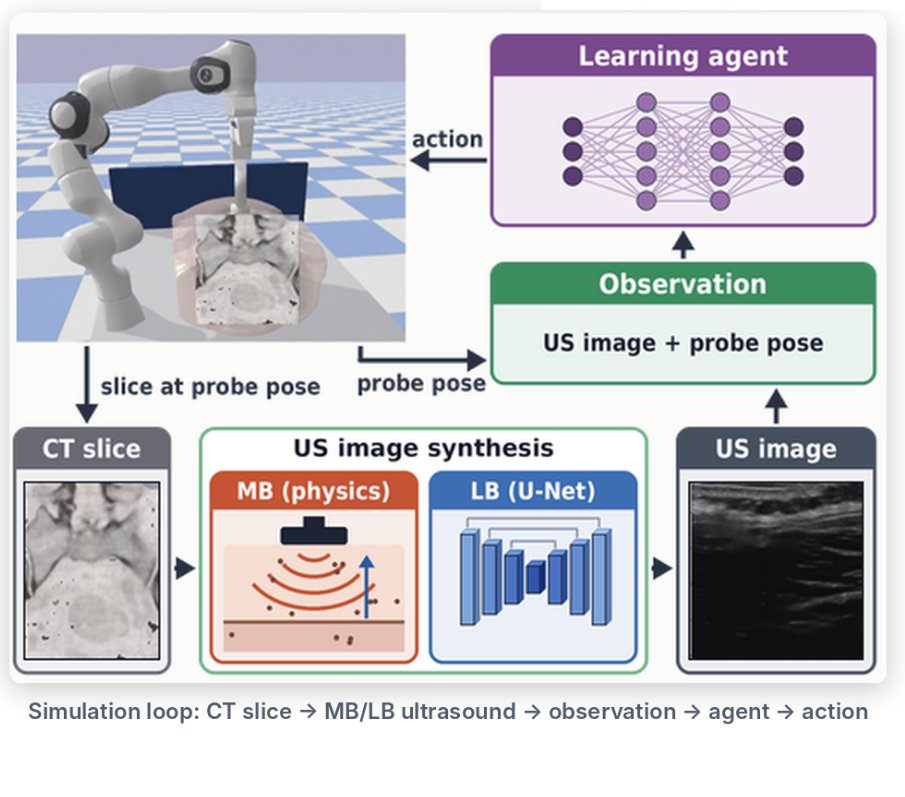
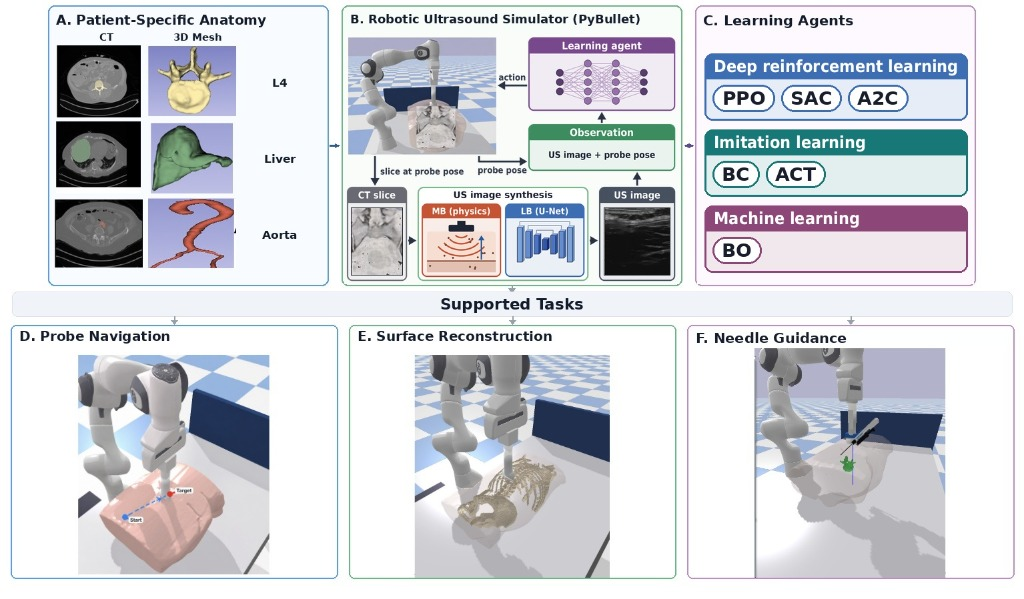
Refine README commands, update overview diagram, and clean figure paths

diff --git a/render_publication_needle_figure.py b/render_publication_needle_figure.py
@@ -260,7 +260,7 @@ def main():
     final_img = np.vstack([header, composite])
 
     # Save to workspace and brain artifact
-    out_brain = "/Users/lakshaybatta/.gemini/antigravity/brain/ffa78df7-4d76-453b-9869-bc9788f5cdf1/aura_needle_assembly_figure.png"
+    out_brain = "results/aura_needle_assembly_figure.png"
     cv2.imwrite(out_brain, final_img)
     cv2.imwrite("aura_needle_assembly_figure.png", final_img)
     print(f"Generated publication-quality figure: {out_brain}")

diff --git a/generate_publication_needle_figure.py b/generate_publication_needle_figure.py
@@ -396,7 +396,7 @@ def main():
     out_figures.parent.mkdir(parents=True, exist_ok=True)
     cv2.imwrite(str(out_figures), composite)
 
-    out_brain = Path("/Users/lakshaybatta/.gemini/antigravity/brain/ffa78df7-4d76-453b-9869-bc9788f5cdf1/needle_guidance_publication_figure.png")
+    out_brain = Path("results/needle_guidance_publication_figure.png")
     cv2.imwrite(str(out_brain), composite)
 
     out_legacy = PROJECT_ROOT / "figures/aura_needle_assembly_figure.png"

diff --git a/README.md b/README.md
@@ -19,11 +19,11 @@
 
 ## Overview
 
-**SonoGymLite** is a lightweight, accessible, CPU-friendly robotic ultrasound simulation and benchmarking environment designed for developing and evaluating autonomous ultrasound scanning policies. Built on **PyBullet** physics and **OpenAI Gymnasium**, SonoGymLite couples Franka Emika Panda manipulator kinematics with realistic ultrasound image synthesis and compliant clinical surface contact modeling.
+**SonoGymLite** is a lightweight, accessible, CPU-friendly robotic ultrasound simulation and benchmarking environment designed for developing and evaluating autonomous ultrasound scanning policies. Built on **PyBullet** physics and **OpenAI Gymnasium**, SonoGymLite couples Franka Emika Panda manipulator kinematics with ultrasound image synthesis from patient CT and a surface-following probe controller.
 
 Unlike traditional GPU-intensive wave solvers, SonoGymLite executes at high throughput on standard commodity hardware:
 - **Workstation:** $120.1\,\text{steps/s}$ ($8.3\,\text{ms/step}$).
-- **Laptop (Apple Silicon M1):** $48.4 \pm 18.6\,\text{steps/s}$ ($15.2\text{--}24.9\,\text{ms/step}$).
+- **Laptop (Apple Silicon M1):** $48.4 \pm 18.6\,\text{steps/s}$.
 
 ```text
                                        ┌────────────────────────────────┐
@@ -70,8 +70,8 @@ Unlike traditional GPU-intensive wave solvers, SonoGymLite executes at high thro
    - **Learning-Based (LB):** 2-channel deep convolutional U-Net generator trained on clinical volunteer sweeps (Cavalcanti Spine Dataset).
 
 3. **Three Clinical Benchmark Tasks:**
-   - **Task 1 (Target Navigation):** Autonomous alignment of the ultrasound probe with clinical Standard Viewing Planes (SVPs) across three distinct anatomies (Lumbar Spine L4, Liver Portal Vein, Abdominal Aorta Bifurcation) evaluated over in-domain (`s0011`, `s0058`, `s0250`) and held-out test patients (`s0344`, `s0358`).
-   - **Task 2 (Volumetric Reconstruction):** Autonomous sweeping trajectory planning over patient spine anatomy coupled with deep U-Net slice segmentation and 3D voxel compounding, achieving approximately 60% bone surface coverage on the lumbar spine.
+   - **Task 1 (Target Navigation):** Autonomous alignment of the ultrasound probe with the landmark of a target anatomy for three anatomies (Lumbar Spine L4, Liver Portal Vein, Abdominal Aorta Bifurcation) evaluated over in-domain (`s0011`, `s0058`, `s0250`) and held-out test patients (`s0344`, `s0358`).
+   - **Task 2 (Volumetric Reconstruction):** Autonomous scanning of the surface of the target anatomy. PPO with a spatial memory covers about 60% of the upper spine surface on unseen patients.
    - **Task 3 (In-Plane Needle Guidance):** Biopsy guide attachment (`robotic_probe_needle_guide.urdf`) with in-plane ultrasound needle visualization, specular reflection physics ($V = \cos\theta$), and 24-azimuth bone corridor planning for obstacle-free trajectory selection.
 
 ---
@@ -128,7 +128,7 @@ python3 test_gym_env.py --headless
 ### 2. Interactive Ultrasound Scanning Simulator
 Manually control the robotic probe over the patient body with real-time B-mode ultrasound feedback:
 ```bash
-python3 live_unet_demo.py --sim-mode conv --anatomy spine
+python3 live_unet_demo.py --sim-mode conv
 ```
 
 ### 3. Interactive Needle Guidance Visualizer (Task 3)
@@ -180,23 +180,23 @@ python3 train_bc.py --anatomy spine --epochs 50
 
 ## Reproducing Paper Results
 
-All empirical benchmark results reported in the manuscript can be reproduced using the following commands (evaluated over 100 trials):
+The evaluation commands below use 100 trials and 300-step episodes, as in the paper. Pretrained checkpoints are not provided, so first train the policies with the commands in the Policy Training section.
 
 ```bash
 # Table 1: Goal-Conditioned Navigation Benchmark (100 trials across algorithms and anatomies)
-python3 run_full_benchmark.py --episodes 100
+python3 run_full_benchmark.py --episodes 100 --max-steps 300
 
 # Table 2: Image-Only Navigation Benchmark
-python3 eval_sonogym_benchmark.py --episodes-per-patient 100 --anatomy spine --sim-mode conv
+python3 eval_sonogym_benchmark.py --episodes-per-patient 100 --max-steps 300 --anatomy spine --sim-mode conv
 
 # Table 3: Volumetric Bone Reconstruction Coverage Comparison
-python3 compare_reconstruction_sweep.py --max-steps 150
+python3 compare_reconstruction_sweep.py --max-steps 300
 
 # Supplementary Material: Needle Geometric Feasibility & Acoustic Visibility Verification
 python3 scripts/step5_needle_verify.py --all
 
 # Supplementary Material: Navigation-to-Needle Hit Rate Coupling Benchmark
-python3 scripts/step5b_needle_nav_hit.py --reference-only
+python3 scripts/step5b_needle_nav_hit.py
 ```
 
 All raw outputs, machine-readable JSON logs, and summary tables are logged to `results/`.
